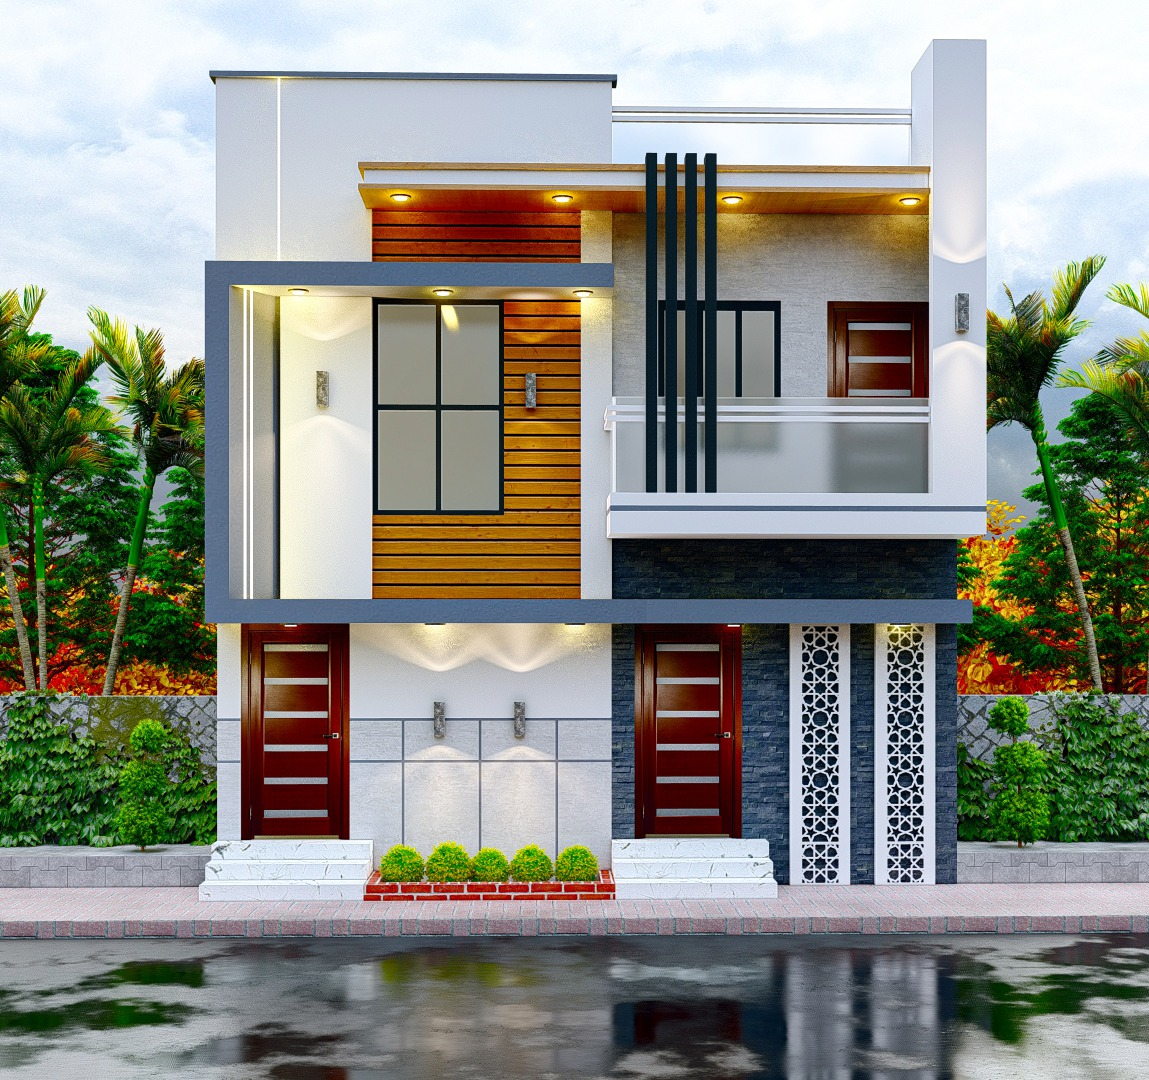
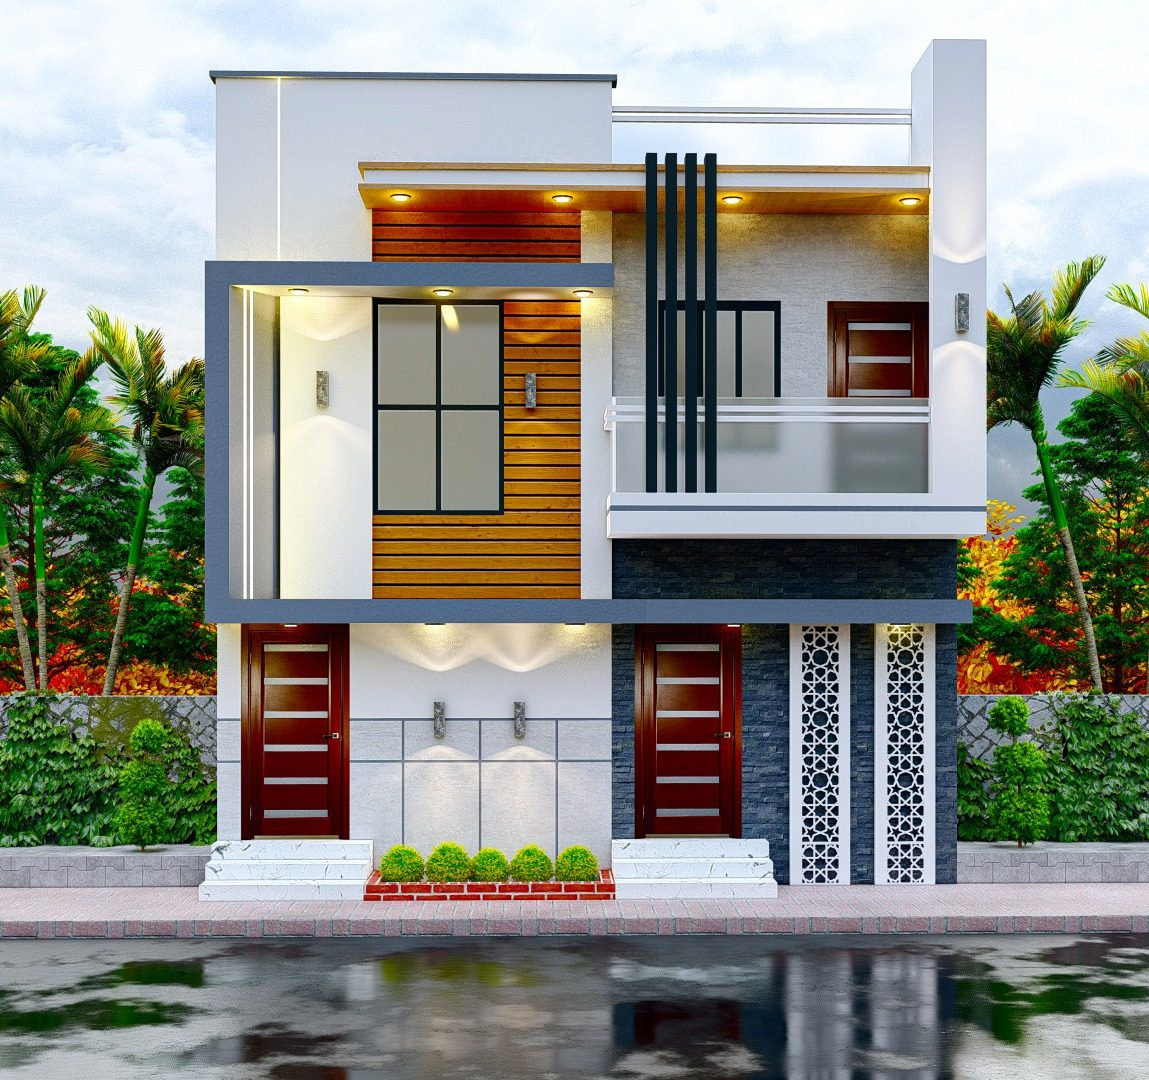
FIX : optimize the images of bg

Changed region(s): [[0.8529, 0.4583, 0.8834, 0.55], [0.9748, 0.4583, 1.0, 0.4889], [0.3655, 0.7944, 0.396, 0.825]]

diff --git a/js/main.js b/js/main.js
@@ -118,5 +118,19 @@ document.addEventListener('DOMContentLoaded', () => {
       }
     });
   }
+
+  // Preload remaining slideshow images in background after window load
+  window.addEventListener('load', () => {
+    const imagesToPreload = [
+      'assets/elevations/build2.jpeg',
+      'assets/elevations/build3.jpeg',
+      'assets/elevations/build4.jpeg',
+      'assets/elevations/build6.jpeg'
+    ];
+    imagesToPreload.forEach(src => {
+      const img = new Image();
+      img.src = src;
+    });
+  });
   // ── End Hero Slideshow ───────────────────────────────────────────────────────
 });

diff --git a/css/style.css b/css/style.css
@@ -279,6 +279,7 @@ nav.links a:hover::after {
   justify-content: center;
   color: #fff;
   padding: 0;
+  background-color: var(--charcoal);
 }
 
 /* Slides container */

diff --git a/index.html b/index.html
@@ -6,6 +6,7 @@
   <title>E-Tech Builders — Construction, Planning &amp; Design | Attur, Salem</title>
   <meta name="description" content="E-Tech Builders handles construction end to end, from land to key handover. Planning, design, elevation and construction in Attur, Salem, Tamil Nadu.">
   <link rel="icon" type="image/png" href="assets/red_logo.png">
+  <link rel="preload" as="image" href="assets/elevations/build1.jpeg">
 
   <link rel="preconnect" href="https://fonts.googleapis.com">
   <link rel="preconnect" href="https://fonts.gstatic.com" crossorigin>